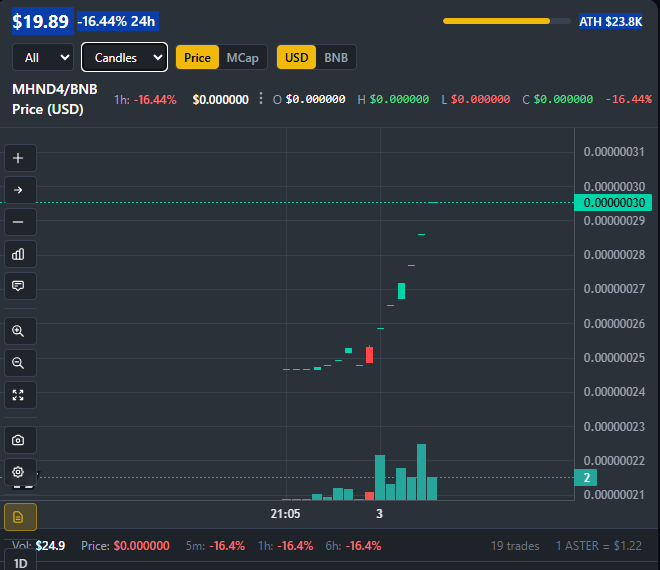
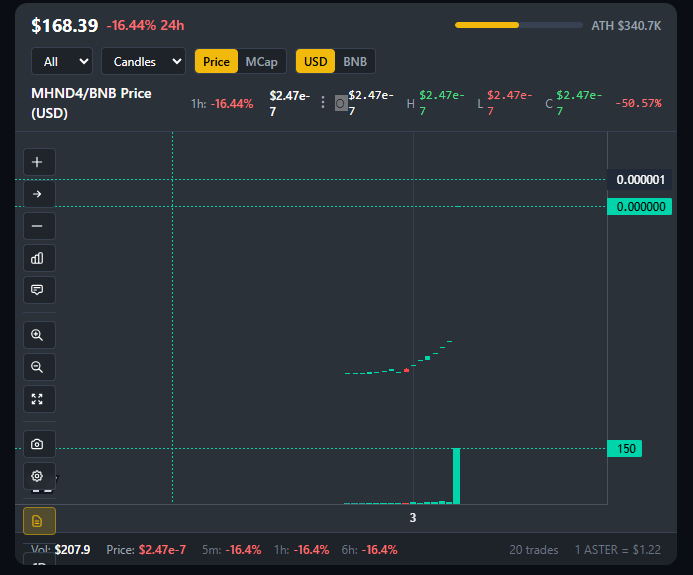
fix issues in chart

diff --git a/frontend/components/AdvancedPriceChart.tsx b/frontend/components/AdvancedPriceChart.tsx
@@ -29,25 +29,26 @@ type ChartType = 'candlestick' | 'line' | 'area'
 // TODO: Replace with CoinGecko or DexScreener API for real-time price
 const ASTER_USD_PRICE = 1.22
 
-// Smart price formatting function for micro-values
+// Smart price formatting function for compact display
 const formatPrice = (price: number, currency: 'USD' | 'ASTER' = 'USD'): string => {
-  if (price === 0) return currency === 'USD' ? '$0.00' : '0.00 ASTER'
+  if (price === 0) return currency === 'USD' ? '$0' : '0'
   
   const prefix = currency === 'USD' ? '$' : ''
-  const suffix = currency === 'ASTER' ? ' ASTER' : ''
+  const suffix = currency === 'ASTER' ? 'A' : '' // Use 'A' for ASTER to save space
   
-  // For very small values, use scientific notation
+  // For very small values, use compact scientific notation
   if (Math.abs(price) < 0.0001) {
-    return `${prefix}${price.toExponential(2)}${suffix}`
+    const exp = price.toExponential(1)
+    return `${prefix}${exp}${suffix}`
   }
   
-  // For small values, use more decimal places
+  // For small values, use fewer decimal places
   if (Math.abs(price) < 0.01) {
-    return `${prefix}${price.toFixed(8)}${suffix}`
+    return `${prefix}${price.toFixed(6)}${suffix}`
   }
   
   // For normal values, use standard formatting
-  return `${prefix}${price.toFixed(6)}${suffix}`
+  return `${prefix}${price.toFixed(4)}${suffix}`
 }
 
 export function AdvancedPriceChart({ 
@@ -148,18 +149,15 @@ export function AdvancedPriceChart({
       total: transactions.length,
       withValidData: validTxs.length,
       withNullData: transactions.length - validTxs.length,
-      sampleValidTx: validTxs[0] ? {
-        asterAmount: validTxs[0].asterAmount,
-        tokenAmount: validTxs[0].tokenAmount,
-        asterAmountFormatted: validTxs[0].asterAmountFormatted,
-        tokenAmountFormatted: validTxs[0].tokenAmountFormatted
-      } : 'none',
-      sampleNullTx: transactions.find(tx => !tx.asterAmount && !tx.asterAmountFormatted) ? {
-        asterAmount: 'null',
-        tokenAmount: 'null',
-        asterAmountFormatted: 'null',
-        tokenAmountFormatted: 'null'
-      } : 'none'
+      firstTxTimestamp: validTxs[0] ? new Date(validTxs[0].timestamp * 1000).toLocaleString() : 'none',
+      lastTxTimestamp: validTxs[validTxs.length - 1] ? new Date(validTxs[validTxs.length - 1].timestamp * 1000).toLocaleString() : 'none',
+      pricesCalculated: validTxs.map(tx => {
+        const asterAmount = tx.asterAmountFormatted ? Number(tx.asterAmountFormatted) : Number(tx.asterAmount) / 1e18
+        const tokenAmount = tx.tokenAmountFormatted ? Number(tx.tokenAmountFormatted) : Number(tx.tokenAmount) / 1e18
+        const priceAster = tokenAmount > 0 ? asterAmount / tokenAmount : 0
+        const priceUSD = priceAster * ASTER_USD_PRICE
+        return { priceAster: priceAster.toFixed(12), priceUSD: priceUSD.toFixed(12), timestamp: new Date(tx.timestamp * 1000).toLocaleString() }
+      })
     })
   }
 
@@ -179,8 +177,11 @@ export function AdvancedPriceChart({
       }
     }
 
+    // Sort transactions by timestamp (oldest first) for proper price history
+    const sortedTransactions = [...transactions].sort((a, b) => a.timestamp - b.timestamp)
+    
     // Calculate prices for all transactions with proper wei conversion
-    const prices = transactions.map(tx => {
+    const prices = sortedTransactions.map(tx => {
       // Handle null values and fallback to raw amounts if formatted ones are missing
       let asterAmount, tokenAmount
       
@@ -221,6 +222,14 @@ export function AdvancedPriceChart({
     const currentPriceAster = currentPriceUSD / ASTER_USD_PRICE
     const firstPrice = prices[0]
     const change24h = firstPrice > 0 ? ((currentPriceUSD - firstPrice) / firstPrice) * 100 : 0
+    
+    // Debug price calculations
+    console.log('[AdvancedPriceChart] 🔢 Price calculation debug:', {
+      firstPriceUSD: firstPrice.toFixed(12),
+      currentPriceUSD: currentPriceUSD.toFixed(12),
+      change24h: change24h.toFixed(2) + '%',
+      validPricesCount: prices.length
+    })
     const high24hUSD = Math.max(...prices)
     const low24hUSD = Math.min(...prices)
     const athUSD = high24hUSD
@@ -996,7 +1005,14 @@ export function AdvancedPriceChart({
 
     Object.entries(periods).forEach(([period, seconds]) => {
       const cutoff = now - seconds
-      const oldTx = transactions.find(tx => tx.timestamp <= cutoff)
+      
+      // Find the transaction closest to the cutoff time (but before)
+      const validTxs = transactions.filter(tx => {
+        return (tx.asterAmountFormatted && tx.tokenAmountFormatted) || (tx.asterAmount && tx.tokenAmount)
+      }).sort((a, b) => b.timestamp - a.timestamp) // Sort newest first
+      
+      const oldTx = validTxs.find(tx => tx.timestamp <= cutoff)
+      
       if (oldTx && currentPrice > 0) {
         let asterAmount, tokenAmount
         if (oldTx.asterAmountFormatted && oldTx.tokenAmountFormatted) {
@@ -1016,8 +1032,17 @@ export function AdvancedPriceChart({
         } else {
           changes[period] = 0
         }
+        
+        // Debug period changes
+        console.log(`[AdvancedPriceChart] 📊 ${period} change:`, {
+          oldTimestamp: new Date(oldTx.timestamp * 1000).toLocaleString(),
+          oldPrice: oldPrice.toFixed(12),
+          currentPrice: currentPrice.toFixed(12),
+          change: changes[period].toFixed(2) + '%'
+        })
       } else {
         changes[period] = 0
+        console.log(`[AdvancedPriceChart] ❌ No transaction found for ${period} period (cutoff: ${new Date(cutoff * 1000).toLocaleString()})`)
       }
     })
 
@@ -1180,26 +1205,12 @@ export function AdvancedPriceChart({
         {/* Row 3: Token Price Info + Security Menu */}
         <div className="flex items-center justify-between">
           <div className="flex items-center gap-4">
-            {/* Token/BNB Price (USD) */}
-            <div className="flex items-center gap-1">
+            {/* Token/ASTER Price */}
+            <div className="flex items-center gap-2">
               <span className="text-sm font-medium text-white">
-                {tokenSymbol}/BNB Price (USD)
+                {tokenSymbol}/ASTER:
               </span>
-            </div>
-            
-            {/* 1h Change */}
-            <div className="text-xs">
-              <span className="text-gray-400 mr-1">1h:</span>
-              <span className={`font-medium ${
-                periodChanges['1h'] >= 0 ? 'text-green-400' : 'text-red-400'
-              }`}>
-                {periodChanges['1h'] >= 0 ? '+' : ''}{periodChanges['1h'].toFixed(2)}%
-              </span>
-            </div>
-            
-            {/* ASTER Price */}
-            <div className="text-xs">
-              <span className="text-white font-medium">
+              <span className="text-sm font-bold text-primary">
                 {formatPrice(priceMode === 'USD' ? stats.currentPriceUSD : stats.currentPrice, priceMode)}
               </span>
             </div>
@@ -1217,45 +1228,33 @@ export function AdvancedPriceChart({
             </button>
           </div>
           
-          {/* OHLC Values (Right Side) - Fixed with proper conversions */}
-          <div className="flex items-center gap-3 text-xs">
+          {/* OHLC Values (Right Side) - Compact layout */}
+          <div className="flex items-center gap-2 text-xs">
             {(hoveredData || currentOHLC) ? (
               <>
-                <div className="flex items-center gap-1">
-                  <span className="text-gray-400">O</span>
-                  <span className="text-white font-mono">
-                    {formatPrice(hoveredData?.open || currentOHLC?.open || 0, priceMode)}
-                  </span>
-                </div>
-                <div className="flex items-center gap-1">
-                  <span className="text-gray-400">H</span>
-                  <span className="text-green-400 font-mono">
-                    {formatPrice(hoveredData?.high || currentOHLC?.high || 0, priceMode)}
-                  </span>
-                </div>
-                <div className="flex items-center gap-1">
-                  <span className="text-gray-400">L</span>
-                  <span className="text-red-400 font-mono">
-                    {formatPrice(hoveredData?.low || currentOHLC?.low || 0, priceMode)}
-                  </span>
-                </div>
-                <div className="flex items-center gap-1">
-                  <span className="text-gray-400">C</span>
-                  <span className={`font-mono ${
-                    (hoveredData?.close || currentOHLC?.close || 0) >= (hoveredData?.open || currentOHLC?.open || 0) 
-                      ? 'text-green-400' : 'text-red-400'
-                  }`}>
-                    {formatPrice(hoveredData?.close || currentOHLC?.close || 0, priceMode)}
-                  </span>
-                </div>
-                <div className={`font-mono ${
+                <span className="font-mono text-gray-300">
+                  O:{formatPrice(hoveredData?.open || currentOHLC?.open || 0, priceMode)}
+                </span>
+                <span className="font-mono text-green-400">
+                  H:{formatPrice(hoveredData?.high || currentOHLC?.high || 0, priceMode)}
+                </span>
+                <span className="font-mono text-red-400">
+                  L:{formatPrice(hoveredData?.low || currentOHLC?.low || 0, priceMode)}
+                </span>
+                <span className={`font-mono ${
+                  (hoveredData?.close || currentOHLC?.close || 0) >= (hoveredData?.open || currentOHLC?.open || 0) 
+                    ? 'text-green-400' : 'text-red-400'
+                }`}>
+                  C:{formatPrice(hoveredData?.close || currentOHLC?.close || 0, priceMode)}
+                </span>
+                <span className={`font-mono ml-1 ${
                   stats.change24h >= 0 ? 'text-green-400' : 'text-red-400'
                 }`}>
-                  {stats.change24h >= 0 ? '+' : ''}{stats.change24h.toFixed(2)}%
-                </div>
+                  {stats.change24h >= 0 ? '+' : ''}{stats.change24h.toFixed(1)}%
+                </span>
               </>
             ) : (
-              <span className="text-gray-500">Hover over chart to see OHLC</span>
+              <span className="text-gray-500">Hover for OHLC</span>
             )}
           </div>
         </div>
